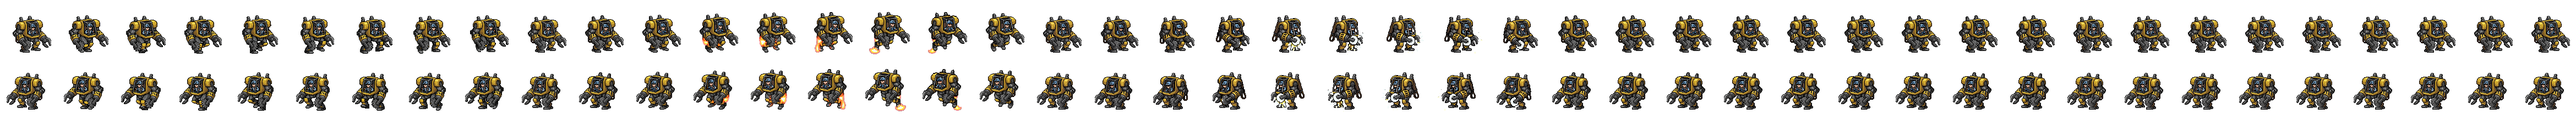
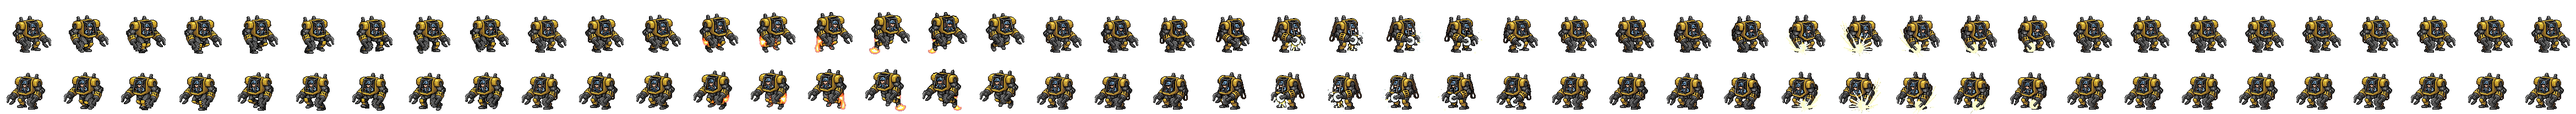
로봇 아래 캐기 그림 + 날면서 캘 때 캐기 동작·불꽃
- PixelLab robot_dig_down_se.gif 를 시트 27~35칸(아래 캐기)으로
- 공중에서 캘 때도 캐기 그림, 등 아래 분사구에 코드 불꽃 덧그림
- 위 캐기 원본은 보류(임시 칸 유지)
- 테스트: 날면서 캘 때 캐기 동작

Claude-Session: https://claude.ai/code/session_016F7EMsu5FM7qsx6dm9TuT4

Changed region(s): [[0.5927, 0.1442, 0.8111, 0.4904], [0.5927, 0.6346, 0.8111, 0.9808]]

diff --git a/src/game/render/draw.ts b/src/game/render/draw.ts
@@ -198,13 +198,13 @@ export function humanPose() {
 }
 //  로봇 동작: [이름, 칸 번호] — 점화(한 번) → 비행(반복) → 낙하 → 착지(한 번) → 서 있기 / 걷기
 export function mechAnim() {
+  if (P.digging) {                                                  // 날면서 캘 때도 캐기 그림 (불꽃은 draw 가 코드로 덧그림)
+    const k = P.mode === "down" ? "dig_down" : P.mode === "up" ? "dig_up" : "dig";
+    return S.digHoldT < 0.24 ? [k + "_in", Math.floor(S.digHoldT / 0.06)] : [k, Math.floor(S.animT * 12)];
+  }
   if (!P.grounded) {
     if (S.thrustOn) return S.thrustT < 0.16 ? ["takeoff", Math.floor(S.thrustT / 0.08)] : ["fly", Math.floor(S.animT * 8)];
     return ["fall", 0];
-  }
-  if (P.digging) {
-    const k = P.mode === "down" ? "dig_down" : P.mode === "up" ? "dig_up" : "dig";
-    return S.digHoldT < 0.24 ? [k + "_in", Math.floor(S.digHoldT / 0.06)] : [k, Math.floor(S.animT * 12)];
   }
   if (S.landT > 0) return ["land", S.landT > 0.06 ? 0 : 1];
   if (Math.abs(P.vx) > 20) return ["walk", Math.floor((S.walkD || 0) / (T * 2.4 / 8))];   // 한 바퀴(8칸)에 약 2.4칸
@@ -642,6 +642,8 @@ export function draw() {
       }
       const lx = P.mode === "side" ? lean * P.facing : 0, ly = P.mode === "down" ? lean : P.mode === "up" ? -lean : 0;
       const jx = P.digging ? (hasDig ? Math.sign(ox) : ox) : 0, jy = P.digging ? (hasDig ? Math.sign(oy) : oy) : 0;
+      // 날면서 캐는 중: 캐기 그림엔 불꽃이 없으니 등 아래 분사구에서 코드 불꽃 (로봇 뒤에 그림)
+      if (P.digging && S.thrustOn) drawThrustFlame(Math.round(px - P.facing * 20 + jx + lx), Math.round(py + HH - 26 + jy + ly), 0.8);
       ctx.drawImage(mi, Math.round(px - MCX + jx + lx), Math.round(py + HH - MFT + jy + ly));
     }
   }

diff --git a/CLAUDE.md b/CLAUDE.md
@@ -129,7 +129,8 @@ docs/                  plan.md decisions.md
   `player/pick.png`(손에 드는 곡괭이, 손잡이 (16,29)) · `tiles/ladder.png`. 광부 칸은 모자 가운데 x 40 · 발바닥 y 68 (`draw.ts` 의 `PCX`·`PFT`), 로봇 칸은 몸 가운데 x 52 · 발바닥 y 96 (`sprites.ts` 의 `MCX`·`MFT`).
   로봇 동작은 `sprites.ts` 의 `MECH_ANIM` + `draw.ts` 의 `mechAnim()`: 점화(한 번, `S.thrustT` < 0.16초) → 비행(누르는 동안 반복) → 낙하(뗌) → 착지(`S.landT`) → 서 있기 / 걷기(걸은 거리).
   캐기는 팔 내지르기(`dig_in`, 캔 지 0.24초까지 `S.digHoldT`) → 톱니바퀴 회전(`dig` 반복). 아래·위는 `dig_down*`·`dig_up*`(시트 27~35·36~44칸):
-  원본 `robot_dig_down_se.gif`·`robot_dig_up_se.gif` 가 있으면 9장으로 맞춰 넣고, 없으면 임시 칸. 캐는 동안 파는 쪽으로 몸을 붙이고 ±2px 갈리는 떨림(톱니바퀴가 암석에 닿게). 로봇은 그림 속 불꽃을 쓰고 코드 불꽃은 안 그림.
+  원본 `robot_dig_down_se.gif`(있음)·`robot_dig_up_se.gif`(아직 없음 → 임시 칸)를 9장으로 맞춰 넣음. 캐는 동안 파는 쪽으로 몸을 붙이고 ±2px 갈리는 떨림(톱니바퀴가 암석에 닿게).
+  로봇은 그림 속 불꽃을 쓰고 코드 불꽃은 안 그림. 단 **날면서 캘 때**는 캐기 그림(불꽃 없음)을 쓰고 등 아래 분사구에 코드 불꽃을 덧그림.
   칸 고르기는 `sprites.ts` 의 `PLAYER_ANIM`(칸 번호 목록), 손 자리는 `PGRIP`. **점프·사다리·곡괭이질 원본은 아직 없어서** 서 있기/걷기 칸을 빌려 쓰고 곡괭이는 손에 붙여 코드로 돌림(`SWING_POSE`·`humanPose()`).
   새 동작 원본(예: `mine_east.gif`)을 받으면 make-player.py 의 시트에 칸을 더하고 `PLAYER_ANIM` 만 고치면 됨. 걷기 칸은 걸은 거리(`S.walkD`)로 넘김(미끄러져 보이지 않게).
   박자는 `update.ts` 의 `PICK_SWING`(0.4초): 내리찍는 순간에만 소리·부스러기·캐기 진행. 곡괭이 날은 회색이라 단계 색(`PICK_TIER`)으로 칠함.

diff --git a/docs/decisions.md b/docs/decisions.md
@@ -279,6 +279,11 @@
 - 캐기 그림이 팔 뻗기를 보여 주므로 예전의 '몸을 파는 쪽으로 들이밀기'는 끄고 떨림만 1px.
 - 점프 새 버전은 불꽃이 머리 위 굴뚝에서 위로 나와 보류 → 불 없는 점프를 받아 불꽃은 코드로(등 아래 분사구, 아래로만) 그릴 예정.
 
+## 2026-11-23 로봇 아래 캐기 + 날면서 캐기 (art/robot-dig-down)
+- PixelLab 아래 캐기 GIF(9장: 톱니바퀴를 발 앞 바닥에 내리찍어 갊)를 시트 27~35칸으로.
+- 위 캐기 GIF 는 톱니바퀴가 머리 위가 아니라 앞쪽 머리 높이로 가고, 팔이 집게 두 개로 바뀌고, 조종석 위에 빛 덩어리가 덮여 보류 → 다시 받기로.
+- 날면서 캐기(옆·위): 따로 그림을 받지 않고 캐기 그림 + 등 아래 코드 불꽃으로. 발이 땅을 디딘 자세라 공중에서 살짝 어색하면 그때 '떠 있는 캐기' 그림을 받기로.
+
 ## 밸런스 메모
 - 새 업적 보상: 귀환 $100·600·3000·12000 / 폭파 $150·800·3000·10000 / 아슬아슬 $200·1500·6000 / 레벨 $300·1500·8000·30000 (경험치 = 보상의 15%).
 - 보물 상자: 구역당 확률 45%(+깊이/4000, 최대 75%), 두 번째 상자는 그 30%. 보상 $(60+깊이×1.6)×(0.7~1.3), 소모품 25%. 경험치 40.
